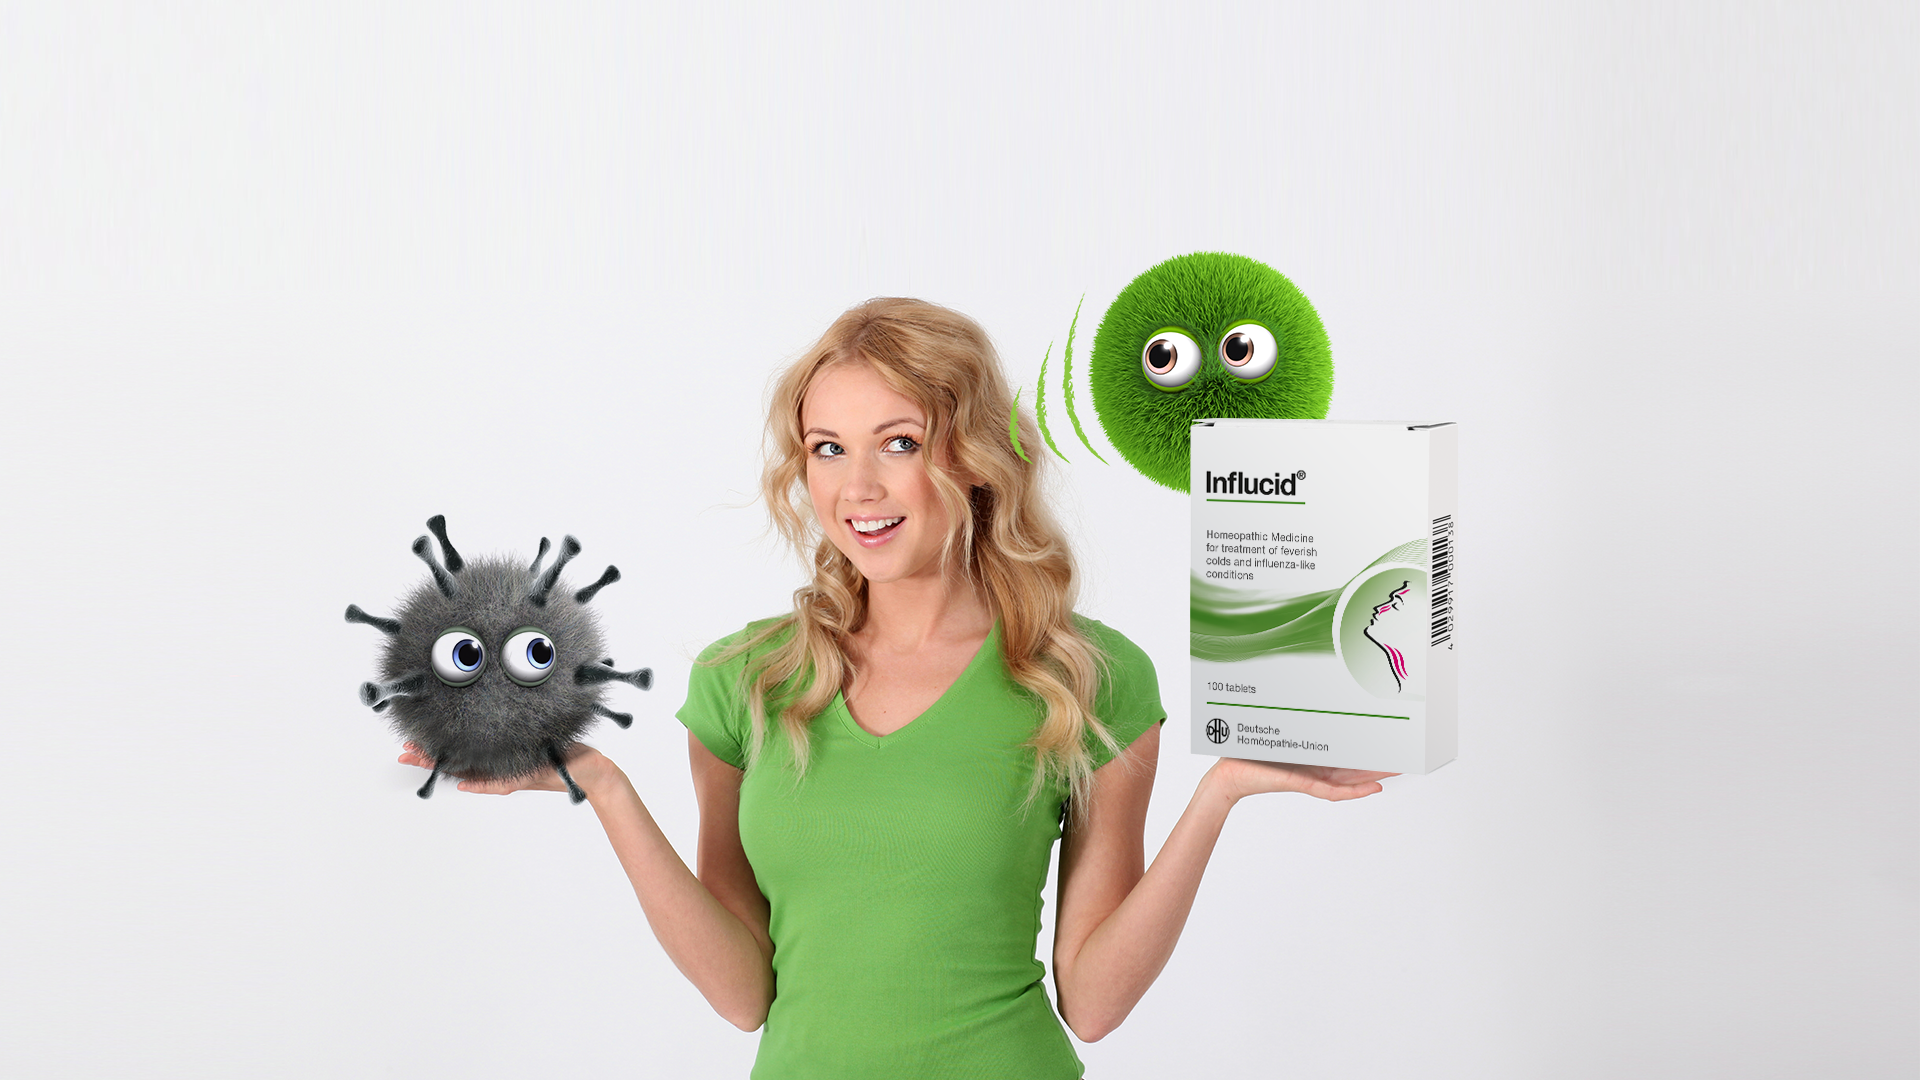
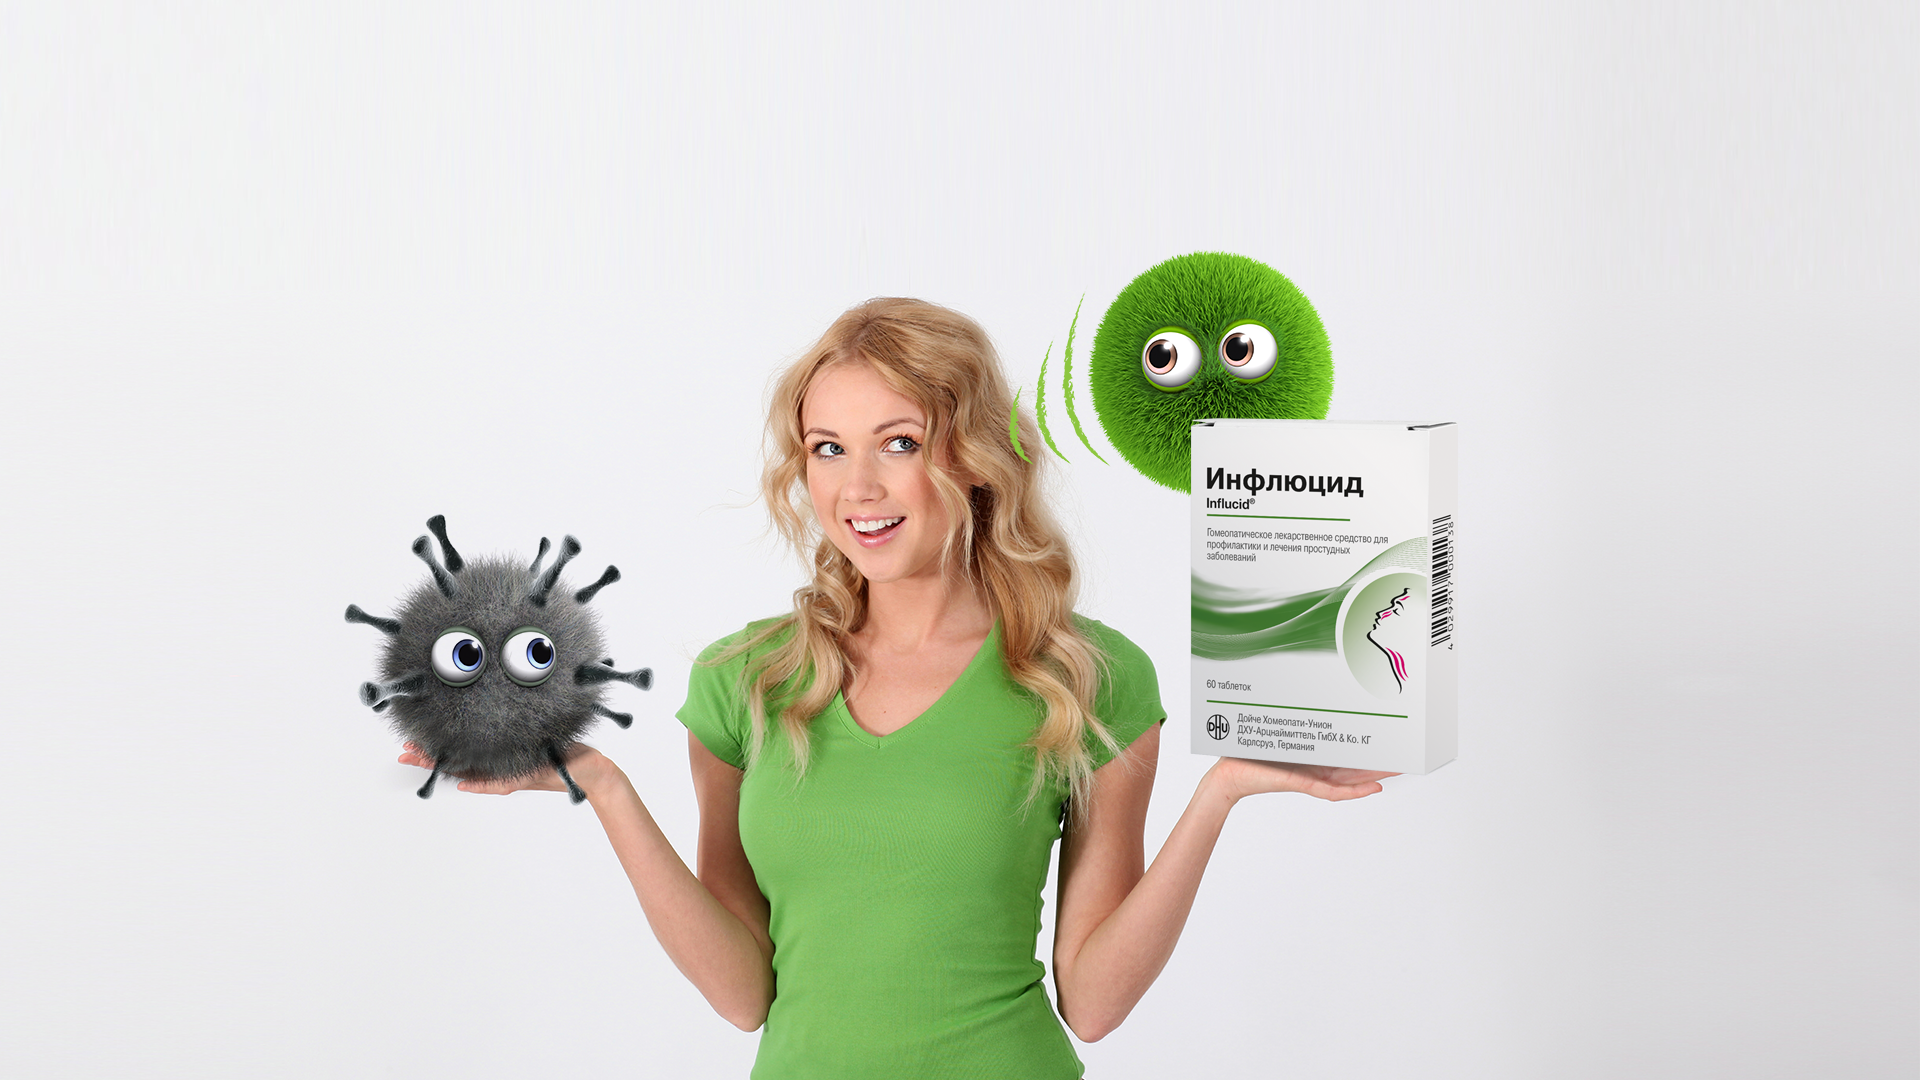
inf-BY

Changed region(s): [[0.625, 0.4278, 0.75, 0.7028]]

diff --git a/influcid-BY/index.html b/influcid-BY/index.html
@@ -64,10 +64,10 @@
             <p>Сделано в Германии</p>
           </a>
           <a class="block-2__plate">
-            <p>Взрослым и детям</p>
+            <p>Для взрослых и детей с 1 года</p>
           </a>
           <a class="block-2__plate">
-            <p>Натуральный состав</p>
+            <p>Комплексный состав</p>
           </a>
           <a href="https://www.clinicaltrialsregister.eu/ctr-search/search?query=Influcid" class="block-2__plate">
             <p>Доказанная эффективность</p>
@@ -187,15 +187,48 @@
             </div>
           </div>
 
+<!--          //////new-->
+
           <div class="container__subcontainer">
             <p>
-              <b>Детям от 12 лет и  взрослым:</b> рассасывать до полного растворения каждый час (не больше 12 таблеток в сутки) до наступления улучшения
+              <b>Детям от 6 до 12 лет:</b> по 1 таблетке 4 раза в сутки.
+            </p>
+            <div class="subcontainer">
+              <div class="subcontainer-particle-1">
+                <b>В 1-2  СУТКИ</b>
+                <b class="subtext">Каждые 2 часа</b>
+                <p>по 1 таблетке 4 раза в сутки </p>
+              </div>
+              <div class="subcontainer-particle-2">
+                <div class="clock-img"></div>
+                <div class="pill-container pill8"></div>
+              </div>
+              <div class="subcontainer-particle-1">
+                <b>
+                  ПРИ ДАЛЬНЕЙШЕМ<br />ЛЕЧЕНИИ
+                </b>
+                <b class="subtext">До выздоровления</b>
+                <p>по 1  таблетке 3 раза в сутки</p>
+              </div>
+              <div class="subcontainer-particle-2">
+                <div class="clock-img"></div>
+                <div class="pill-container pill3"></div>
+              </div>
+            </div>
+          </div>
+
+
+<!--          ///// new-->
+
+          <div class="container__subcontainer">
+            <p>
+              <b>Детям от 12 лет и  взрослым:</b> по 1 таблетке 6 раз в сутки.
             </p>
             <div class="subcontainer">
               <div class="subcontainer-particle-1">
                 <b>В ПЕРВЫЕ СУТКИ</b>
                 <b class="subtext">Каждый час</b>
-                <p>по 1 таблетке</p>
+                <p>по 1 таблетке 6 раз в сутки</p>
               </div>
               <div class="subcontainer-particle-2">
                 <div class="clock-img"></div>
@@ -206,7 +239,7 @@
                   ПРИ ДАЛЬНЕЙШЕМ<br />ЛЕЧЕНИИ
                 </b>
                 <b class="subtext">До выздоровления</b>
-                <p>1-2 таблетки 3 раза в сутки</p>
+                <p>по 1 таблетке 3 раза в сутки</p>
               </div>
               <div class="subcontainer-particle-2">
                 <div class="clock-img"></div>
@@ -215,44 +248,8 @@
             </div>
           </div>
         </div>
-        <p class="block-5__container-btext">
-          Длительность лечения  7-10 дней до полного выздоровления
-        </p>
-        <h3>Для профилактики ОРВИ</h3>
 
-        <div class="block-5__container">
-          <div class="container__subcontainer">
-            <p>
-              <b>Детям от 1 до 12 лет:</b>  рассасывать по 1 таблетке 3 раза в сутки
-            </p>
-            <div class="subcontainer vertical">
-              <div class="subcontainer-particle-1">
-                <b>В СУТКИ</b>
-                <p>не больше 3 таблеток</p>
-              </div>
-              <div class="subcontainer-particle-2">
-                <div class="clock-img"></div>
-                <div class="pill-container pill3"></div>
-              </div>
-            </div>
-          </div>
 
-          <div class="container__subcontainer">
-            <p>
-              <b>Детям от 12 лет и взрослым:</b> рассасывать по 1-2 таблетке 3 рази в сутки
-            </p>
-            <div class="subcontainer vertical">
-              <div class="subcontainer-particle-1">
-                <b>В СУТКИ</b>
-                <p>не больше 6 таблеток</p>
-              </div>
-              <div class="subcontainer-particle-2">
-                <div class="clock-img"></div>
-                <div class="pill-container pill6"></div>
-              </div>
-            </div>
-          </div>
-        </div>
         <div class="bottom-text">
           <p>
             Применение препарата при первых проявлениях симптомов ОРВИ и гриппа или сразу после контакта с людьми, которые заболели, способствует предотвращению развития заболевания;
@@ -431,7 +428,7 @@
 
             <div class="block-7">
               <h2>Где купить</h2>
-              <div id="comp_wgt" data-drug="11722,11721" data-lang="ru" data-url="https://compendium.com.ua/info/11096/infljutsid/" data-proj="инфлюцид" style="border-color: #2894cf; width: 80%"><div class="title" style="background: #2894cf;"><a href="https://compendium.com.ua/info/11096/infljutsid/" title="ИНФЛЮЦИД, Alpen Pharma AG" class="logo"><img src="https://compendium.com.ua/widget/compendium_ru.svg"></a><a href="https://compendium.com.ua/cart/" class="cart"><img src="https://compendium.com.ua/widget/cart.svg" data-pagespeed-url-hash="161338521" onload="pagespeed.CriticalImages.checkImageForCriticality(this);"><span id="comp_cnt" class="badge">0</span></a></div><ul role="tablist" class="nav nav-tabs"><li class="nav-item active"><a href="#comp_map" aria-controls="comp_map" role="tab" data-toggle="tab" class="nav-link active"><span>Карта</span></a></li><li class="nav-item"><a href="#comp_lst" aria-controls="comp_lst" role="tab" data-toggle="tab" class="nav-link">В аптеку</a></li><li class="nav-item"><a href="#comp_crt" aria-controls="comp_crt" role="tab" data-toggle="tab" class="nav-link"><span>Корзина</span></a></li></ul><div class="tab-content"><div id="comp_inf" class="tab-pane" style="height: 342px;"></div><div id="comp_map" class="tab-pane active" style="height: 342px;"></div><div id="comp_lst" class="tab-pane" style="height: 342px;"></div><div id="comp_crt" class="tab-pane" style="height: 342px;"></div></div></div><link rel="stylesheet" href="https://geowidget.morion.ua/css/style.css" type="text/css" media="all"/><link rel="stylesheet" href="https://compendium.com.ua/widget/widget.css" type="text/css" media="all"/><script src="https://compendium.com.ua/widget/widget.js" defer></script>
+              <a class="where-to-buy where-to-buy__bottom" href="https://tabletka.by/search?request=">Где купить</a>
               <!-- <div class="block-7__img"></div> -->
               <div class="block-7__text">
                 <h3>Доказательная база</h3>
@@ -448,9 +445,18 @@
             <!--              <li> Продажі в упаковках препаратів Цетрарії ісландської (ісландського моху) за період 2015-2019 роки (2019 -3 квартали) згідно даних роздібного аудиту    Sale Out Системи дослідження фармацевтичного ринку «Фармексплорер» </li>-->
             <!--            </ol>-->
             <p>
-              Реклама лекарственного препарата. Перед применением внимательно ознакомьтесь с инструкцией и проконсультируйтесь с врачом. Хранить в недоступном для детей месте. Инфлюцид таб. Р.С. № ___________________.
+              Предприятие-производитель:
+              Немецкий Гомеопатический Союз
+              (Deutsche Homoopathie-Union-DHU)
+              Германия, Ottostrasse 24, 76227 Karlsruhe, Germany
               <br>
-              Эксклюзивный дистрибьютор: ____________________________.
+              Официальный представитель в РБ:
+              АО «Alpen Pharma AG» (Швейцарская Конфедерация).
+              Представительство в РБ: 220053, г.Минск, ул. Пархоменко,3, офис 1Б.
+              www.alpenpharma.com
+              info.belarus@alpenpharma.com<br>
+              Номер регистрационного свидетельства
+              МЗ РБ Таблетки №3167/98/03/08/13/18/18 от 06.11.2018 бессрочно
             </p>
             <div class="logos-container">
               <a class="disclamer-tra__logo" href=""><p><b>Производитель:</b><br>DHU (Германия)<br>https://www.dhu.de/</p></a>
@@ -458,7 +464,8 @@
             </div>
           </div>
           <div class="disclamer-warning">
-            <p>САМОЛЕЧЕНИЕ МОЖЕТ БЫТЬ ОПАСНЫМ ДЛЯ ВАШЕГО ЗДОРОВЬЯ</p>
+            <p>НА ПРАВАХ РЕКЛАМЫ. ГОМЕОПАТИЧЕСКОЕ ЛЕКАРСТВЕННОЕ СРЕДСТВО. ТРАДИЦИОННО ПРИМЕНЯЕТСЯ В КОМПЛЕКСНОМ ЛЕЧЕНИИ ГРИППА И ОСТРЫХ РЕСПИРАТОРНЫХ ЗАБОЛЕВАНИЙ.
+              ПЕРЕД ПРИМЕНЕНИЕМ ПРОЧТИТЕ ИНСТРУКЦИЮ ИЛИ ПРОКОНСУЛЬТИРУЙТЕСЬ С ВРАЧОМ.</p>
           </div>
 
 

diff --git a/influcid-BY/css/style.css b/influcid-BY/css/style.css
@@ -231,7 +231,7 @@ sup {font-size:xx-small; vertical-align:super;}
   min-height: 90vh;
   /*margin-top: -12vh;*/
   width: 100%;
-  background: url("../images/first img2.png") no-repeat center / cover;
+  background: url("../images/first img.png") no-repeat center / cover;
 }
 
 .App-link {
@@ -438,7 +438,7 @@ sup {font-size:xx-small; vertical-align:super;}
   width: 300px;
   height: 300px;
   align-self: center;
-  background: url("../images/inf.jpg")no-repeat center / contain;
+  background: url("../images/inf.png")no-repeat center / contain;
 }
 
 .prod-mobile {
@@ -446,7 +446,7 @@ sup {font-size:xx-small; vertical-align:super;}
   width: 200px;
   height: 200px;
   align-self: center;
-  background: url("../images/inf.jpg")no-repeat center / contain;
+  background: url("../images/inf.png")no-repeat center / contain;
 }
 
 .block-4 {
@@ -488,6 +488,7 @@ sup {font-size:xx-small; vertical-align:super;}
 
 .block-5__container {
   display: flex;
+  flex-wrap: wrap;
   width: 90%;
   justify-content: space-evenly;
 }
@@ -711,7 +712,7 @@ sup {font-size:xx-small; vertical-align:super;}
 }
 
 .product-en {
-	background: url("../images/INFLU_60.png") no-repeat center/contain;
+	background: url("../images/inf.png") no-repeat center/contain;
 }
 
 .block-6 {
@@ -921,7 +922,7 @@ html {
 }
 
 .disclamer-warning p {
-  font-size: 150px;
+  font-size: 75px;
   text-align: center;
   color: #8b8b8b;
   margin: 40px 0;
@@ -1303,7 +1304,7 @@ html {
   }
 
   .disclamer-warning p {
-    font-size: 55px;
+    font-size: 40px;
   }
 
   .disclamer-tra {
@@ -1491,6 +1492,19 @@ html {
   border-radius: 20px;
   text-align: center;
   color: white;
+}
+
+.where-to-buy__bottom {
+  background-color: #2894cf;
+  padding: 10px 20px;
+  border-radius: 20px;
+  text-align: center;
+  color: white;
+}
+
+
+.block-5 .container__subcontainer {
+  margin: 10px;
 }
 
 /*#cookies-policy {*/
